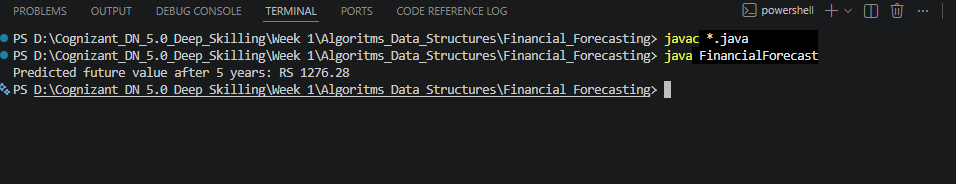
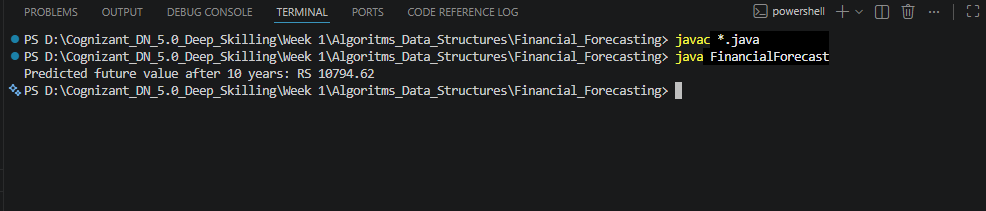
Added Week 1 Financial Forecasting

Changed region(s): [[0.0, 0.1359, 0.8797, 0.5435], [0.0, 0.0272, 0.546, 0.1359], [0.7584, 0.0, 1.0, 0.1087]]

diff --git a/Week 1/Algoritms_Data_Structures/Financial_Forecasting/FinancialForecast.java b/Week 1/Algoritms_Data_Structures/Financial_Forecasting/FinancialForecast.java
@@ -10,9 +10,9 @@ public class FinancialForecast {
 
     // MAIN METHOD
     public static void main(String[] args) {
-        double initialValue = 1000.0; // Initial investment amount in ₹
-        double rate = 0.05;           // Annual growth rate (5%)
-        int years = 5;                // Number of years to forecast
+        double initialValue = 5000.0; // Initial investment amount in ₹
+        double rate = 0.08;           // Annual growth rate (8%)
+        int years = 10;                // Number of years to forecast
 
         double futureValue = predictFutureValue(initialValue, rate, years);
 